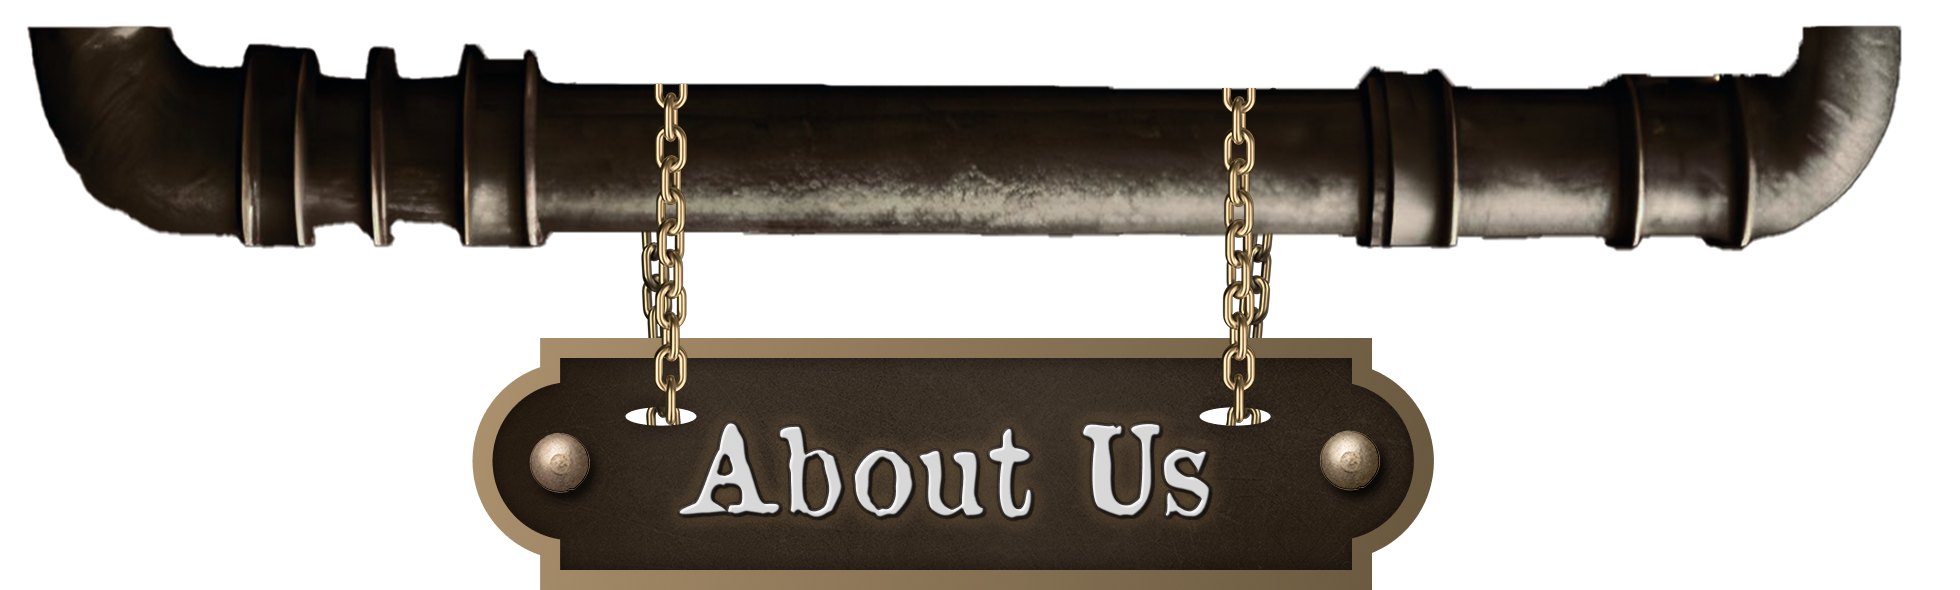
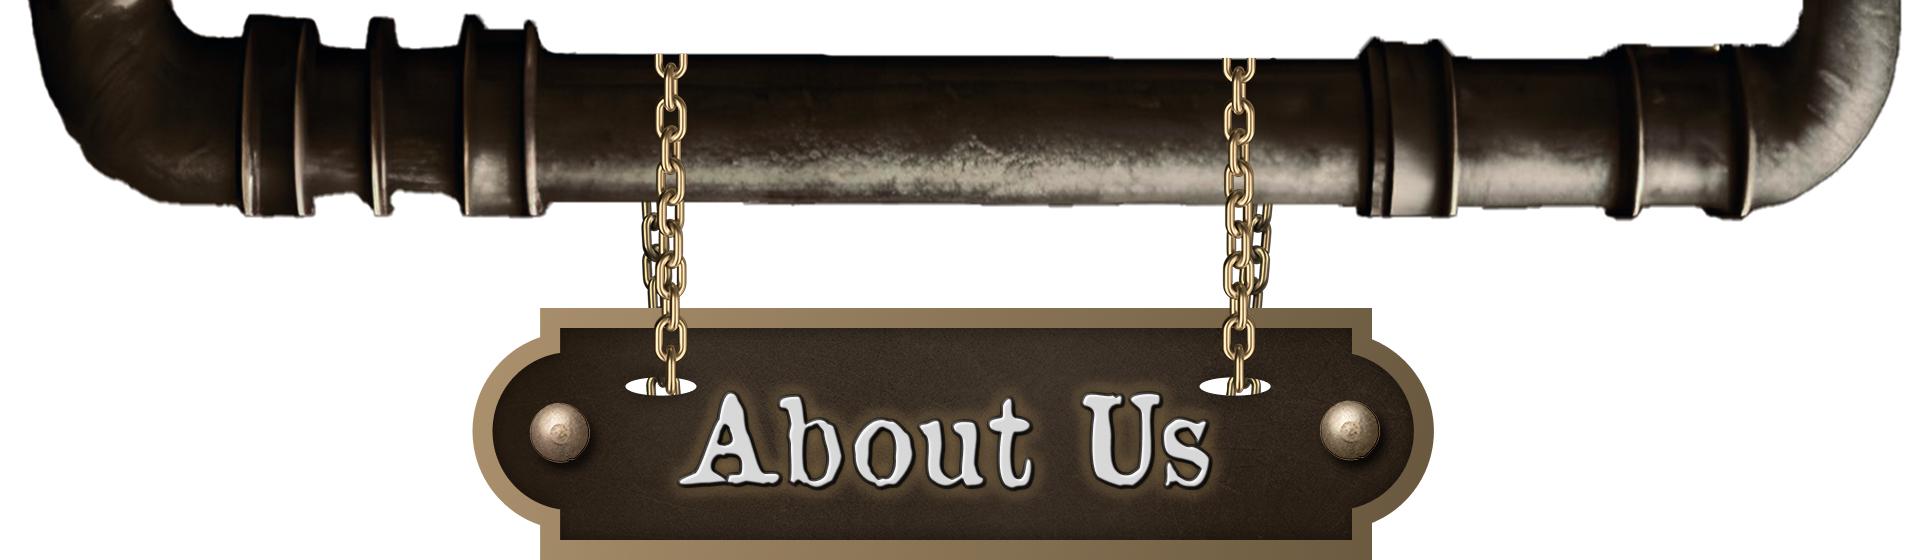
fix: position of aboutUs heading

Changed region(s): [[0.0, 0.0, 0.9938, 1.0]]

diff --git a/components/About/about.module.scss b/components/About/about.module.scss
@@ -269,8 +269,9 @@
         width: 100vw;
 
         .heading {
-            width: 96%;
-            margin-left: 2%;
+            width: 96vw;
+            margin-left: 3vw;
+            margin-right: 2vw;
 
             img {
                 transform: translateX(-5px);
